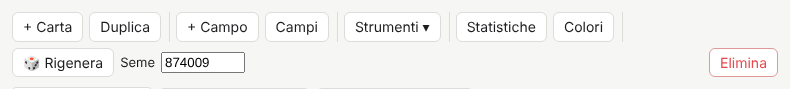
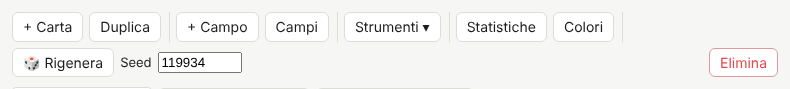
Use the word seed in Italian too
Claude-Session: https://claude.ai/code/session_01QmKvjwkNxGSdMQF3QJDNwE

Changed region(s): [[0.1519, 0.6292, 0.2734, 0.764], [0.3038, 0.5843, 0.3342, 0.6067], [0.1823, 0.5843, 0.2127, 0.6067]]

diff --git a/src/renderer/src/i18n/it.ts b/src/renderer/src/i18n/it.ts
@@ -2495,7 +2495,7 @@ export const it: Record<MessageKey, string> = {
   'system.project.name': 'Nome del progetto (il gioco)',
   'system.set.name': 'Nome del set',
   'system.set.seed':
-    'Seme del set per i numeri a caso (RAND, RANDBETWEEN, {cell.random}, DEAL); vuoto: quello di base',
+    'Seed del set per i numeri a caso (RAND, RANDBETWEEN, {cell.random}, DEAL); vuoto: quello di base',
   'system.template.name': 'Nome del template del componente',
   'system.card.number': 'Numero del componente nel set: la sua riga, da 1',
   'system.set.rows': 'Quante righe ha il set',
@@ -2561,10 +2561,10 @@ export const it: Record<MessageKey, string> = {
   'help.ex.DEAL':
     '=DEAL("spada"; 4; "scudo"; "3-5"; "mano"; "") → 16 caselle: 4 spade, da 3 a 5 scudi, il resto mani',
   'help.fn.RAND':
-    'Un numero a caso da 0 a 1. Resta uguale a ogni disegno della carta; cambia con il seme del set ({set.seed}) e con il tasto 🎲 Rigenera',
+    'Un numero a caso da 0 a 1. Resta uguale a ogni disegno della carta; cambia con il seed del set ({set.seed}) e con il tasto 🎲 Rigenera',
   'help.ex.RAND': '=IF(RAND()<1/4; "rara"; "comune") → comune su circa 3 carte su 4',
   'help.fn.RANDBETWEEN':
-    'Un numero intero a caso dal primo al secondo, compresi; come RAND segue il seme del set',
+    'Un numero intero a caso dal primo al secondo, compresi; come RAND segue il seed del set',
   'help.ex.RANDBETWEEN': '=RANDBETWEEN(1; 6) → 4',
   'help.ex.CELLNUMBER': '=CELLNUMBER("up"; "rows"; "snake"; "all"; 1) → 1 2 3 4 / 8 7 6 5',
   'help.keys.save': 'Salva template, dati e impostazioni',
@@ -2859,11 +2859,11 @@ export const it: Record<MessageKey, string> = {
   'history.project': 'Impostazioni del progetto',
   'set.regenerate': 'Rigenera',
   'tip.regenerate':
-    'Estrae di nuovo i numeri a caso con un altro seme: RAND, RANDBETWEEN, DEAL e {cell.random} nelle formule, e le carte create a caso da Genera. ⌘Z / Ctrl+Z torna indietro',
-  'set.seed': 'Seme',
+    'Estrae di nuovo i numeri a caso con un altro seed: RAND, RANDBETWEEN, DEAL e {cell.random} nelle formule, e le carte create a caso da Genera. ⌘Z / Ctrl+Z torna indietro',
+  'set.seed': 'Seed',
   'set.seedDefault': 'di base',
   'tip.seed':
-    "Lo stesso seme dà sempre le stesse carte. Scrivi un numero per ritrovare un'estrazione che ti piaceva",
+    "Lo stesso seed dà sempre le stesse carte. Scrivi un numero per ritrovare un'estrazione che ti piaceva",
   'set.stats': 'Statistiche',
   'tip.stats':
     'Apre le statistiche del set accanto alle carte: valori, incrocio, dispersione, probabilità di pesca, testi, dadi e panoramica',
@@ -3095,10 +3095,10 @@ export const it: Record<MessageKey, string> = {
   'generate.count': 'Quanti',
   'generate.unique': 'Tutte diverse',
   'generate.uniqueHint': 'Niente componenti con gli stessi valori',
-  'generate.seed': 'Seme',
-  'generate.seedHint': 'Lo stesso seme dà gli stessi componenti',
+  'generate.seed': 'Seed',
+  'generate.seedHint': 'Lo stesso seed dà gli stessi componenti',
   'generate.shuffle': 'Rimescola',
-  'generate.shuffleHint': 'Estrai altri componenti con un nuovo seme',
+  'generate.shuffleHint': 'Estrai altri componenti con un nuovo seed',
   'generate.ofRequested': '(su {n} chieste: il filtro o Tutte diverse ne scartano troppe)',
   'generate.sequence': 'In sequenza',
   'generate.sequenceHint':
@@ -3583,7 +3583,7 @@ export const it: Record<MessageKey, string> = {
   'fx.var.cell.random': 'Numero casuale della casella',
   'fx.var.project.name': 'Nome del progetto',
   'fx.var.set.name': 'Nome del set',
-  'fx.var.set.seed': 'Seme del set',
+  'fx.var.set.seed': 'Seed del set',
   'fx.var.template.name': 'Nome del template',
   'fx.var.card.number': 'Numero del componente',
   'fx.var.set.rows': 'Righe del set',

diff --git a/docs/specifica.md b/docs/specifica.md
@@ -279,7 +279,7 @@ Valori che Stella conosce da sé, scritti come i campi nei testi e nelle formule
 | `{project.author}`  | autore del progetto (`author` in stella.json, da Informazioni progetto)                   |
 | `{project.version}` | versione del progetto (`version` in stella.json)                                          |
 | `{set.name}`        | nome del set (nella lingua delle carte, se tradotto)                                      |
-| `{set.seed}`        | seme dei numeri a caso del set (vuoto se non c'è)                                         |
+| `{set.seed}`        | seed dei numeri a caso del set (vuoto se non c'è)                                         |
 | `{template.name}`   | nome del template della carta (anche quello scelto nella colonna `template`)              |
 | `{card.number}`     | riga della carta nel set, da 1                                                            |
 | `{set.rows}`        | righe del set                                                                             |
@@ -316,7 +316,7 @@ Scelta rivista il 2026-10-18: i calcoli stanno nel template, non nei set (vedi d
 - **Livello valore.** Un livello di tipo `value` non si disegna: contiene un valore della carta che le formule e i testi degli altri livelli usano come `{nome}`. Una colonna con lo stesso nome lo cambia carta per carta; può avere a sua volta una formula. I livelli valore si calcolano in ordine, quindi uno può usare quelli che lo precedono.
 - **Campi disponibili.** `{campo}` vale, nell'ordine di precedenza: il livello valore calcolato, la cella non vuota della riga, il valore del livello nel template. Senza dati (nell'editor) le formule mostrano il risultato con i valori del template. Una cella vuota lascia il valore del template; una cella con soli spazi lo svuota (per le colonne delle proprietà, come `titolo.size`, conta come vuota).
 - **Composizione.** Una formula senza `=` iniziale compone testo: `{nome}.png`, `Forza {forza}`. Se contiene `+ - * /` e il risultato è numerico, si calcola: `{forza}+2`.
-- **Espressione.** Con `=` iniziale è un'espressione come in Excel: `=IF({forza}>3; "Forte"; "Debole")`. Testi tra virgolette, confronti `= <> < > <= >=`, `&` per unire testi, argomenti separati da `;` o `,`. Una virgola tra due cifre (`2,5`) è il separatore dei decimali se la lingua principale usa la virgola (`numberFormat` in stella.json, vedi docs/formato.md), altrimenti è un errore: `=MIN(2,5; 3)` non diventa `MIN(2; 5; 3)`. I numeri del foglio e i risultati scritti sui livelli di testo seguono il formato della lingua della carta; nomi di file, colori e misure no. Funzioni (nomi in inglese): `IF`, `AND`, `OR`, `NOT`, `MIN`, `MAX`, `ABS`, `ROUND`, `FLOOR`, `CEILING`, `UPPER`, `LOWER`, `LEN`, `CONCAT`, `ISBLANK`, `COUNTIN` (quante volte un testo compare in un altro, senza badare alle maiuscole: `COUNTIN({risorse}; "legno")`), `INLIST` (vero se il valore è in un elenco: voci separate da `;` o scritte con le virgole in un solo testo, `1-5` vale per i numeri da 1 a 5, i testi senza badare alle maiuscole: `INLIST({cell.index}; "3, 8, 11")`), `MOD` (resto della divisione, con il segno del divisore come in Excel), `PICK` (l'elemento n-esimo di una lista, da 1, che ricomincia dopo l'ultimo: `PICK({cell.index}; "a"; "b")`; un solo argomento con le virgole si divide in una lista), `CELLNUMBER` (nel contenuto di una griglia, il numero continuo della casella: `CELLNUMBER("up"; "rows"; "snake"; "all"; 1)` dà 1 2 3 4 / 8 7 6 5; `"down"` decrescente, `"columns"` per colonna, `"straight"` in sequenza, `"snake"` riparte a ogni riga dal lato più vicino a dove è finita la riga prima, `"path"` passa sempre alla casella accanto non ancora contata (dritto, poi a destra, poi a sinistra; senza caselle accanto salta alla più vicina) e fa il giro di un anello sul bordo, `"visible"` salta le caselle nascoste, l'ultimo argomento è il numero da cui partire), `DEAL` (nel contenuto di una griglia, distribuisce a caso delle voci nelle caselle visibili con le quantità scelte: `DEAL("spada"; 4; "scudo"; "3-5"; "mano"; "")`; la quantità è esatta, un intervallo, `"2-"` almeno, `"-3"` al massimo o vuota; il mescolamento è fisso per carta e griglia), `RAND()` (un numero a caso da 0 a 1) e `RANDBETWEEN(da; a)` (un intero a caso, estremi compresi). Tutti i numeri a caso (`RAND`, `RANDBETWEEN`, `DEAL`, `{cell.random}`) sono uguali a ogni disegno della stessa carta: dipendono dal seme del set (`seed` in stella.json), dal numero della carta, dalla casella e, per `RAND` e `RANDBETWEEN`, dal testo della formula. Un set senza seme dà i numeri delle versioni precedenti. Rigenera, nella barra di un set che usa il caso, sceglie un seme nuovo e, se le righe vengono da una generazione a caso, le riscrive con quel seme (`generator` in stella.json).
+- **Espressione.** Con `=` iniziale è un'espressione come in Excel: `=IF({forza}>3; "Forte"; "Debole")`. Testi tra virgolette, confronti `= <> < > <= >=`, `&` per unire testi, argomenti separati da `;` o `,`. Una virgola tra due cifre (`2,5`) è il separatore dei decimali se la lingua principale usa la virgola (`numberFormat` in stella.json, vedi docs/formato.md), altrimenti è un errore: `=MIN(2,5; 3)` non diventa `MIN(2; 5; 3)`. I numeri del foglio e i risultati scritti sui livelli di testo seguono il formato della lingua della carta; nomi di file, colori e misure no. Funzioni (nomi in inglese): `IF`, `AND`, `OR`, `NOT`, `MIN`, `MAX`, `ABS`, `ROUND`, `FLOOR`, `CEILING`, `UPPER`, `LOWER`, `LEN`, `CONCAT`, `ISBLANK`, `COUNTIN` (quante volte un testo compare in un altro, senza badare alle maiuscole: `COUNTIN({risorse}; "legno")`), `INLIST` (vero se il valore è in un elenco: voci separate da `;` o scritte con le virgole in un solo testo, `1-5` vale per i numeri da 1 a 5, i testi senza badare alle maiuscole: `INLIST({cell.index}; "3, 8, 11")`), `MOD` (resto della divisione, con il segno del divisore come in Excel), `PICK` (l'elemento n-esimo di una lista, da 1, che ricomincia dopo l'ultimo: `PICK({cell.index}; "a"; "b")`; un solo argomento con le virgole si divide in una lista), `CELLNUMBER` (nel contenuto di una griglia, il numero continuo della casella: `CELLNUMBER("up"; "rows"; "snake"; "all"; 1)` dà 1 2 3 4 / 8 7 6 5; `"down"` decrescente, `"columns"` per colonna, `"straight"` in sequenza, `"snake"` riparte a ogni riga dal lato più vicino a dove è finita la riga prima, `"path"` passa sempre alla casella accanto non ancora contata (dritto, poi a destra, poi a sinistra; senza caselle accanto salta alla più vicina) e fa il giro di un anello sul bordo, `"visible"` salta le caselle nascoste, l'ultimo argomento è il numero da cui partire), `DEAL` (nel contenuto di una griglia, distribuisce a caso delle voci nelle caselle visibili con le quantità scelte: `DEAL("spada"; 4; "scudo"; "3-5"; "mano"; "")`; la quantità è esatta, un intervallo, `"2-"` almeno, `"-3"` al massimo o vuota; il mescolamento è fisso per carta e griglia), `RAND()` (un numero a caso da 0 a 1) e `RANDBETWEEN(da; a)` (un intero a caso, estremi compresi). Tutti i numeri a caso (`RAND`, `RANDBETWEEN`, `DEAL`, `{cell.random}`) sono uguali a ogni disegno della stessa carta: dipendono dal seed del set (`seed` in stella.json), dal numero della carta, dalla casella e, per `RAND` e `RANDBETWEEN`, dal testo della formula. Un set senza seed dà i numeri delle versioni precedenti. Rigenera, nella barra di un set che usa il caso, sceglie un nuovo seed e, se le righe vengono da una generazione a caso, le riscrive con quel seed (`generator` in stella.json).
 - **Numeri.** Un campo è un numero anche scritto come lo mostra un foglio: `1,5`, `50%` (vale 0,5), `1 234,50 €`, `1.234,5`. Nei calcoli e nei confronti vale il numero; dove non si calcola resta com'è scritto, quindi `=IF({forza}>1; {prob}; "")` dà `50%`.
 - I campi mancanti e gli errori sono segnalati sotto la carta e nel pannello proprietà.
 
@@ -399,9 +399,9 @@ Nei campi numerici del pannello delle proprietà, trascinare l'etichetta a destr
 - **Come icona.** Se attivo, ogni valore si scrive come `{valore}`, così il testo mostra l'icona o la variabile con quel nome; i numeri e i valori già tra graffe restano come sono. Per le colonne che alimentano un livello immagine è spento di base, perché lì serve il nome del file.
 - **Filtro.** Un'espressione come quelle dei campi calcolati (sezione 7, senza `=`) che tiene solo le carte per cui è vera. Usa `{colonna}` per il contenuto della cella e `{colonna_1}`, `{colonna_2}`… per i singoli valori scelti, oltre a `COUNTIN`. Esempio: `COUNTIN({costo}; "oro") + COUNTIN({costo}; "gemma") <= 1`.
 - **Copie.** Valore della colonna `amount` per ogni carta generata.
-- **A caso.** **Come** sceglie tra **Tutte le combinazioni** e **A caso**. A caso si chiede il numero di carte; ogni insieme può riempire più colonne (**+ Colonna**, campo `more` del modello) e per ogni carta estrae `pick` valori per colonna. Con le ripetizioni ogni estrazione è indipendente; senza, lo stesso valore non torna in nessuna colonna dell'insieme. I limiti per valore contano le presenze in tutte le colonne dell'insieme: l'estrazione sceglie solo tra i valori ancora sotto il massimo e, quando i posti rimasti bastano appena per i minimi, tra quelli sotto il minimo; poi i valori si mescolano tra le colonne. Se i limiti non si possono rispettare la finestra lo segnala. Le carte scartate dal filtro, o già uscite con **Tutte diverse**, si estraggono di nuovo, fino a 200 tentativi per carta chiesta (al massimo 50000). Il **seme** (mulberry32) rende l'estrazione ripetibile; **Rimescola** ne sceglie uno nuovo.
+- **A caso.** **Come** sceglie tra **Tutte le combinazioni** e **A caso**. A caso si chiede il numero di carte; ogni insieme può riempire più colonne (**+ Colonna**, campo `more` del modello) e per ogni carta estrae `pick` valori per colonna. Con le ripetizioni ogni estrazione è indipendente; senza, lo stesso valore non torna in nessuna colonna dell'insieme. I limiti per valore contano le presenze in tutte le colonne dell'insieme: l'estrazione sceglie solo tra i valori ancora sotto il massimo e, quando i posti rimasti bastano appena per i minimi, tra quelli sotto il minimo; poi i valori si mescolano tra le colonne. Se i limiti non si possono rispettare la finestra lo segnala. Le carte scartate dal filtro, o già uscite con **Tutte diverse**, si estraggono di nuovo, fino a 200 tentativi per carta chiesta (al massimo 50000). Il **seed** (mulberry32) rende l'estrazione ripetibile; **Rimescola** ne sceglie uno nuovo.
 - **Quantità.** Nell'elenco `valore*N` vale il valore N volte (`parseWeighted`): a caso è un peso (campo `weights`, l'estrazione sceglie con probabilità proporzionale), in sequenza N presenze di seguito nel giro (campo `sequence`, che tiene anche i doppi). Con tutte le combinazioni conta solo il valore.
-- **In sequenza.** Terza scelta di **Come** (`spec.sequence`: `count`, `shuffle`, `seed`). Ogni insieme scrive la sua `sequence` nell'ordine, `pick` valori per carta, e ricomincia quando finisce; gli insiemi girano ognuno per conto suo. **Quanti**: tutti i componenti del set (count = righe del set, modo **Aggiorna**) o un numero di giri (count = giri × la sequenza più lunga in carte, `sequenceRound`). `shuffle`: `none` come scritto; `block` mescola ogni giro; `distinct` mescola ogni giro con un ordine non ancora usato, fino a n!/(k1!·k2!…) ordini (`countOrders`), poi ricomincia; `all` mescola i valori di tutti i giri insieme. Seme mulberry32 come a caso; nessun filtro.
+- **In sequenza.** Terza scelta di **Come** (`spec.sequence`: `count`, `shuffle`, `seed`). Ogni insieme scrive la sua `sequence` nell'ordine, `pick` valori per carta, e ricomincia quando finisce; gli insiemi girano ognuno per conto suo. **Quanti**: tutti i componenti del set (count = righe del set, modo **Aggiorna**) o un numero di giri (count = giri × la sequenza più lunga in carte, `sequenceRound`). `shuffle`: `none` come scritto; `block` mescola ogni giro; `distinct` mescola ogni giro con un ordine non ancora usato, fino a n!/(k1!·k2!…) ordini (`countOrders`), poi ricomincia; `all` mescola i valori di tutti i giri insieme. Seed mulberry32 come a caso; nessun filtro.
 - **Anteprima.** Mostra quante carte nasceranno (e su quante combinazioni, se c'è un filtro) e le prime righe con le icone. Oltre 5000 carte la generazione si ferma e lo segnala.
 - **Aggiungi in fondo** accoda le righe a quelle del set; **Sostituisci le carte** cancella prima le righe esistenti, dopo una conferma. **Aggiorna le carte** (solo se il set ha già carte) scrive le colonne generate nelle righe presenti, una carta generata per riga nell'ordine del foglio, senza toccare le altre colonne né `amount`: per esempio, dopo aver generato 30 carte da 6 semi e i numeri 1-5, si riempie la colonna del ritratto con le 30 immagini di una cartella. Le carte generate in più si aggiungono in fondo; se sono meno, le ultime righe restano come sono. Le colonne che mancano nel foglio si aggiungono in fondo. ⌘Z annulla.
 

diff --git a/CHANGELOG.md b/CHANGELOG.md
@@ -17,9 +17,9 @@ nella lingua dell'interfaccia quando segnala un aggiornamento. Le versioni con u
 ### Italiano
 
 - **Scegliere i componenti da esportare**: sotto i set, **Scegli i componenti…** mostra le miniature dei componenti e permette di esportarne solo alcuni, uno per uno. **Nuovi o cambiati rispetto a** sceglie solo quelli diversi dall'ultima esportazione o da un backup; con un backup, **Mostra prima e dopo** mette accanto a ogni componente cambiato com'era. Serve per ristampare solo quello che è cambiato.
-- **Seme e Rigenera**: un set che usa il caso ha nella barra **🎲 Rigenera** e il campo **Seme**. Rigenera estrae di nuovo i numeri a caso con un seme nuovo; lo stesso seme dà sempre le stesse carte e ⌘Z / Ctrl+Z torna indietro. Il seme si salva nel progetto e si mostra con `{set.seed}`.
-- **Formule a caso**: nuove funzioni `RAND()` (un numero da 0 a 1) e `RANDBETWEEN(da; a)` (un numero intero). Come `DEAL` e `{cell.random}` danno lo stesso risultato a ogni disegno della carta e cambiano con il seme del set. I set senza seme tengono i numeri che avevano.
-- **Genera ricorda**: dopo una generazione a caso (a caso o in sequenza mescolata) il set conserva le impostazioni, così Rigenera riscrive le stesse righe con un altro seme e **Genera…** si riapre con quelle impostazioni.
+- **Seed e Rigenera**: un set che usa il caso ha nella barra **🎲 Rigenera** e il campo **Seed**. Rigenera estrae di nuovo i numeri a caso con un nuovo seed; lo stesso seed dà sempre le stesse carte e ⌘Z / Ctrl+Z torna indietro. Il seed si salva nel progetto e si mostra con `{set.seed}`.
+- **Formule a caso**: nuove funzioni `RAND()` (un numero da 0 a 1) e `RANDBETWEEN(da; a)` (un numero intero). Come `DEAL` e `{cell.random}` danno lo stesso risultato a ogni disegno della carta e cambiano con il seed del set. I set senza seed tengono i numeri che avevano.
+- **Genera ricorda**: dopo una generazione a caso (a caso o in sequenza mescolata) il set conserva le impostazioni, così Rigenera riscrive le stesse righe con un altro seed e **Genera…** si riapre con quelle impostazioni.
 
 ## 1.11.0-beta.3
 

diff --git a/docs/formato.md b/docs/formato.md
@@ -55,7 +55,7 @@ I progetti creati quando l'app si chiamava Naibi hanno `naibi.json`, quelli anco
 
 `sheet` è facoltativo: se manca si usa il foglio con lo stesso nome del set. `hiddenColumns` (facoltativo) elenca le colonne nascoste nella tabella e nei campi della carta; `showComputed: true` mostra anche i livelli fissi e con formula, in sola lettura. `pinnedProperties` (facoltativo) elenca le proprietà fissate nei campi della carta, come colonne `livello.proprietà`. Sono solo preferenze di vista: non cambiano le carte.
 
-`seed` (facoltativo, un numero intero) è il seme dei numeri a caso del set: `RAND()`, `RANDBETWEEN()`, `{cell.random}` e `DEAL` nelle formule. Se manca i numeri sono quelli di base, sempre uguali; lo stesso seme dà sempre le stesse carte. `generator` (facoltativo) conserva le impostazioni dell'ultima generazione a caso (Strumenti > Genera) e la prima riga che ha scritto (`from`), perché Rigenera possa riscrivere le carte con un altro seme.
+`seed` (facoltativo, un numero intero) è il seed dei numeri a caso del set: `RAND()`, `RANDBETWEEN()`, `{cell.random}` e `DEAL` nelle formule. Se manca i numeri sono quelli di base, sempre uguali; lo stesso seed dà sempre le stesse carte. `generator` (facoltativo) conserva le impostazioni dell'ultima generazione a caso (Strumenti > Genera) e la prima riga che ha scritto (`from`), perché Rigenera possa riscrivere le carte con un altro seed.
 
 `styles` (facoltativo) contiene gli stili di testo del progetto, scritti con gli stessi attributi del markup (docs/specifica.md, 2.1). Gli stili `heading1`, `heading2` e `note` esistono sempre e si possono ridefinire qui. Finché non c'è l'editor degli stili si modificano a mano.
 
